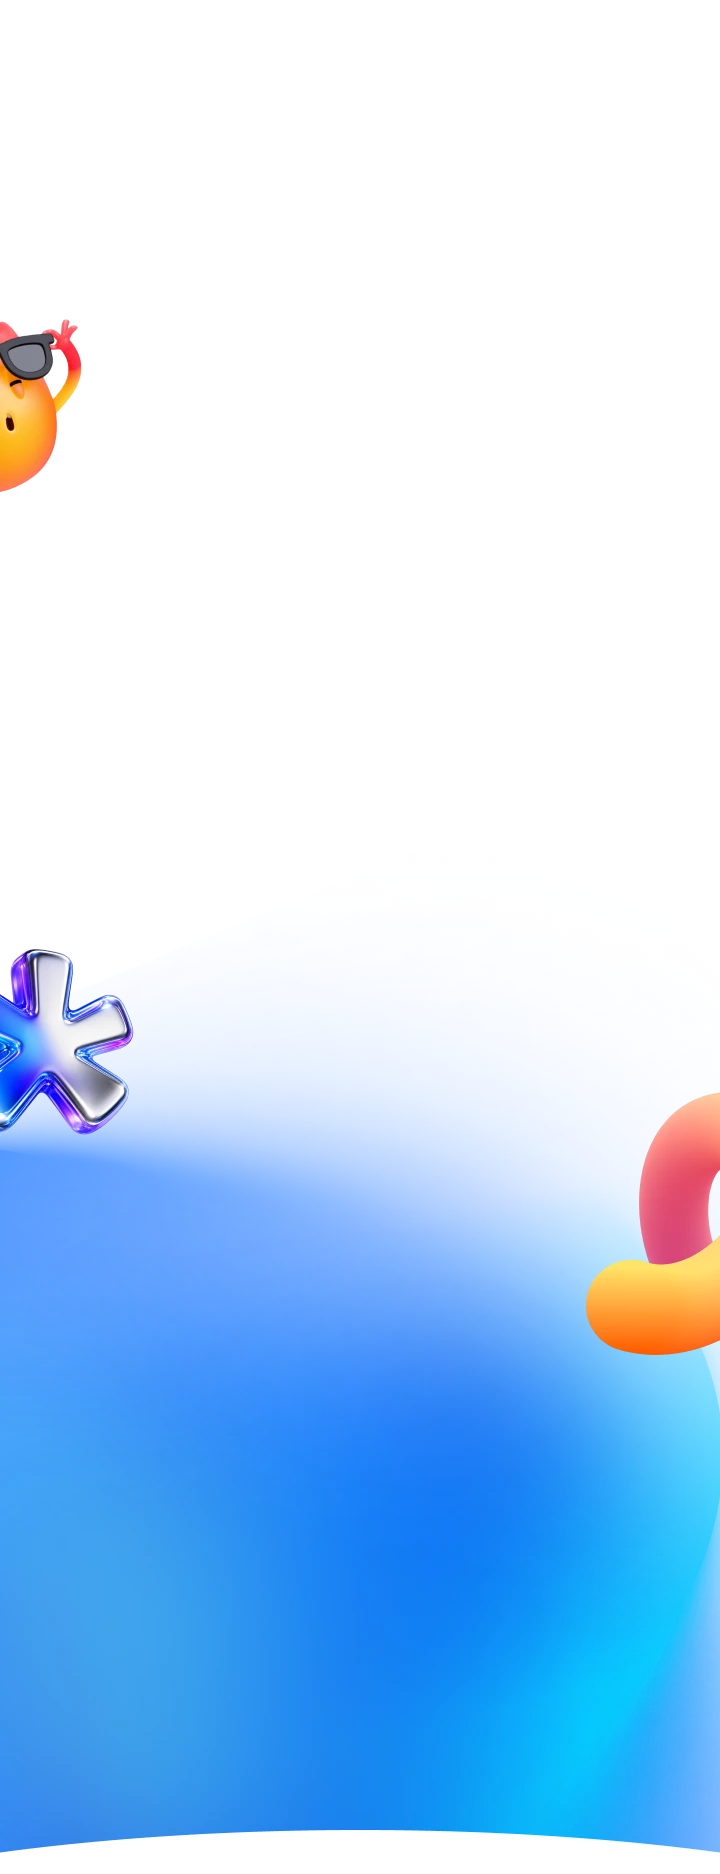
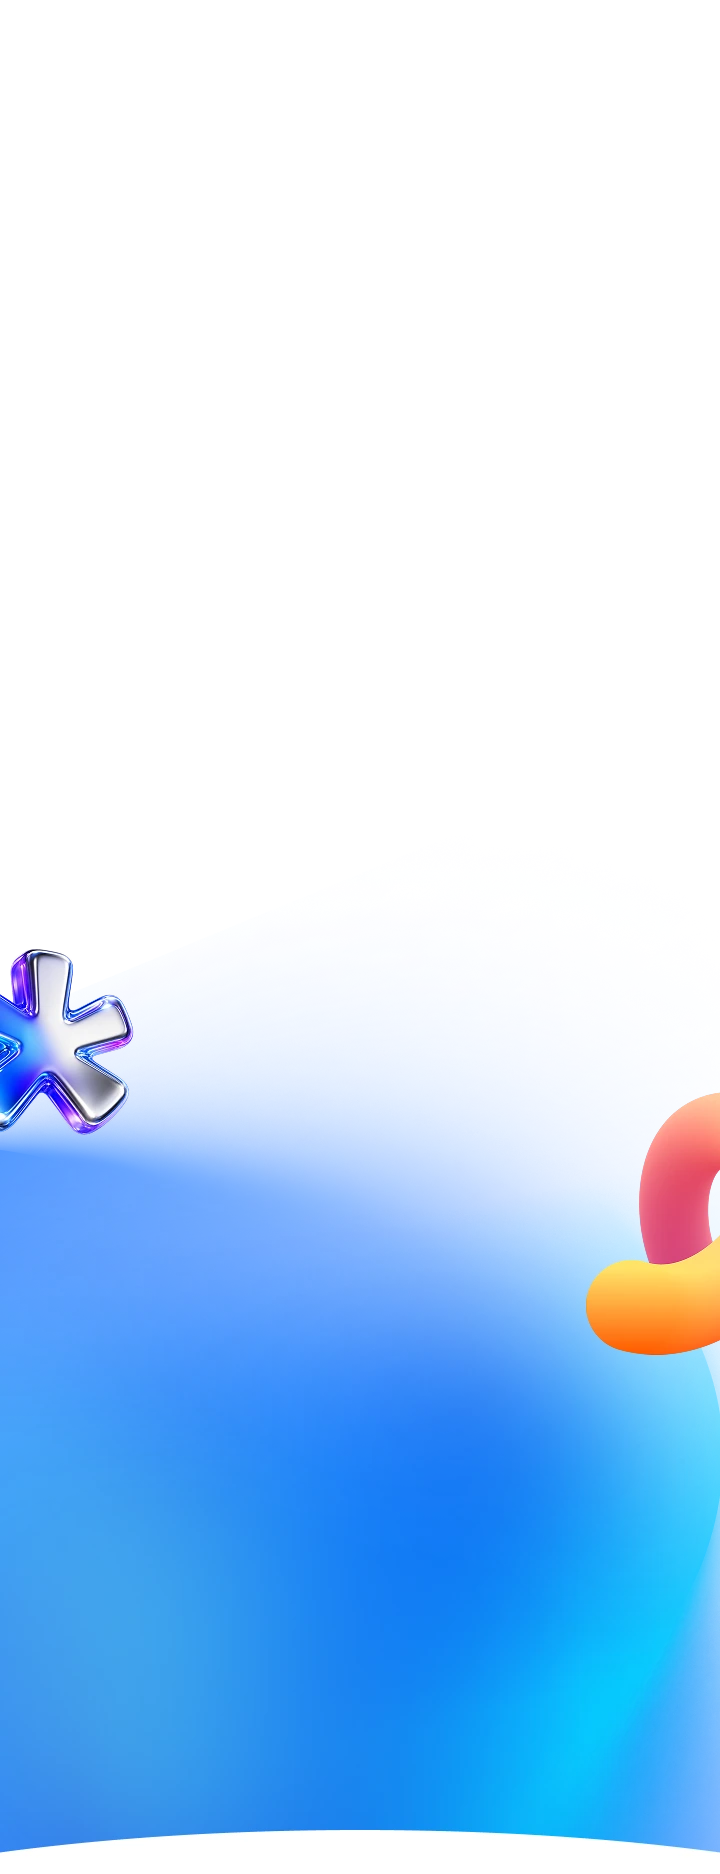
adde

Changed region(s): [[0.0, 0.1547, 0.1222, 0.2785], [0.0, 0.5571, 0.0306, 0.588]]

diff --git a/index.html b/index.html
@@ -69,7 +69,7 @@
                         <span class="desktop-block">Вход</span>
                     </a>
                     <a href="#" class="btn-register">
-                        <span class="desktop-block">Попробовать бесплатно</span>
+                        <span class="desktop-block">Попробовать <span>бесплатно</span></span>
                         <i class="icon icon-arrow mobile-block"></i>
                     </a>
                 </div>
@@ -130,6 +130,7 @@
                             <div class="hero-task-name"><i class="hero-task-circle"></i> Рабочий проект</div>
                             <div class="hero-task-name"><i class="hero-task-circle"></i> Школьный доклад</div>
                             <div class="hero-task-name"><i class="hero-task-circle"></i> Отчётная презентация</div>
+                            <div class="hero-task-name hero-task-other"><i class="hero-task-circle"></i> И другое</div>
                         </div>
                     </div>
                     <div class="hero-task-colum task-one" data-val="2">
@@ -148,6 +149,8 @@
                             <div class="hero-task-name"><i class="hero-task-circle"></i> Доклад</div>
                             <div class="hero-task-name"><i class="hero-task-circle"></i> Отчёт</div>
                             <div class="hero-task-name"><i class="hero-task-circle"></i> Диплом</div>
+                            <div class="hero-task-name hero-task-other"><i class="hero-task-circle"></i> И другое</div>
+
                         </div>
                     </div>
                     <div class="hero-task-colum task-three" data-val="3">
@@ -167,6 +170,8 @@
                             <div class="hero-task-name"><i class="hero-task-circle"></i> Генерация картинок</div>
                             <div class="hero-task-name"><i class="hero-task-circle"></i> Ретушь</div>
                             <div class="hero-task-name"><i class="hero-task-circle"></i> Улучшение фото</div>
+                            <div class="hero-task-name hero-task-other"><i class="hero-task-circle"></i> И другое</div>
+
                         </div>
                     </div>
                     <div class="hero-task-colum task-four" data-val="4">
@@ -186,6 +191,8 @@
                             <div class="hero-task-name"><i class="hero-task-circle"></i> Генерация по промпту</div>
                             <div class="hero-task-name"><i class="hero-task-circle"></i> Рекламный ролик</div>
                             <div class="hero-task-name"><i class="hero-task-circle"></i> Редактирование видео</div>
+                            <div class="hero-task-name hero-task-other"><i class="hero-task-circle"></i> И другое</div>
+
                         </div>
                     </div>
                 </div>

diff --git a/assets/css/home.css b/assets/css/home.css
@@ -114,7 +114,7 @@
 .hero-section {
   position: relative;
   z-index: 2;
-  min-height: 1103px;
+  min-height: 1173px;
   padding: 114px 0 0;
 }
 
@@ -327,7 +327,9 @@ display: block;
   height: 6px;
   border-radius: 50%;
 }
-
+.hero-task-other{
+  display: none;
+}
 
 
 .hero-task-name:nth-child(1){
@@ -1678,10 +1680,6 @@ html[data-theme="dark"] .section-decor-two{
 
 
 
-
-
-
-
 @media (max-width: 1200px) {
   .reviews-item {
     max-width: 49%;
@@ -1716,7 +1714,6 @@ html[data-theme="dark"] .section-decor-two{
     top: 115px;
     right: -27px;
   }
-
 
   .item-one {
     width: 314px;
@@ -1838,9 +1835,6 @@ html[data-theme="dark"] .section-decor-two{
   .hero-section {
     min-height: 925px;
     padding-bottom: 24px;
-  }
-  .reviews-item {
-    max-width: 47%;
   }
 
   .hero-task-cnt {
@@ -1993,12 +1987,12 @@ html[data-theme="dark"] .section-decor-two{
     margin-bottom: 0;
     border-radius: 10px;
     height: 381px;
+    max-width: 100%;
+
   }
 
 
-  .btn-register .desktop-block {
-    display: none;
-  }
+
 }
 
 
@@ -2303,7 +2297,9 @@ html[data-theme="dark"] .section-decor-two{
     font-size: 7.01px;
     line-height: 9.18px;
   }
-
+  .hero-task-cols {
+    min-height: 400px;
+  }
 
 
 
@@ -2414,20 +2410,6 @@ html[data-theme="dark"] .section-decor-two{
     z-index: 1;
   }
 
-  .btn-register {
-    height: 40px;
-    max-width: 40px;
-    width: 100%;
-    display: flex;
-    align-items: center;
-    justify-content: center;
-    min-width: 40px;
-    padding: 0;
-  }
-  .btn-register i {
-    flex: 0 0 15px;
-    font-size: 13px;
-  }
 
   .possibilit-card {
     max-width: 400px;
@@ -2505,7 +2487,9 @@ html[data-theme="dark"] .section-decor-two{
     width: 92px;
     height: 92px;
   }
-
+  .hero-section {
+    min-height: 1130px;
+  }
 
   .possibilit-card {
     gap: 16px;
@@ -2739,7 +2723,10 @@ html[data-theme="dark"] .section-decor-two{
     padding: 14px;
   }
 
-
+  .hero-task-other{
+    display: flex;
+    color: var(--accent-color);
+  }
 
   .for-content {
     top: 54px;
@@ -2748,7 +2735,10 @@ html[data-theme="dark"] .section-decor-two{
   }
   .hero-task-cols {
     max-width: 460px;
+    min-height: 380px;
+
   }
+
   .for-content h2 {
     font-size: 16.72px;
     margin: 4px 0;
@@ -2756,6 +2746,11 @@ html[data-theme="dark"] .section-decor-two{
   .for-content p {
     font-size: 6.01px;
     line-height: 7.18px;
+  }
+  .hero-task-name {
+    gap: 8px;
+    padding: 8px 11px;
+    font-size: 15px;
   }
 }
 
@@ -2780,4 +2775,6 @@ html[data-theme="dark"] .section-decor-two{
     font-size: 5.01px;
     line-height: 7.18px;
   }
+
+
 }

diff --git a/assets/css/main.css b/assets/css/main.css
@@ -756,6 +756,15 @@ strong {
   .hero-bg {
     height: auto;
   }
+  .hero-section {
+    min-height: 1090px;
+  }
+}
+
+@media (max-width: 1220px){
+  .hero-bg {
+    height: 100%;
+  }
 }
 
 @media (max-width: 1199px) {
@@ -782,13 +791,21 @@ strong {
     margin-top: 12px;
   }
   .hero-bg {
-    height: 90%;
+    height: 100%;
   }
-  .hero-bg img {
-    object-fit: unset;
+  .hero-section:before{
+    content: "";
+    position: absolute;
+    left: 0;
+    top: 150px;
+    background-image: url("../images/icon-banner.png");
+    background-repeat: no-repeat;
+    background-size: cover;
+    width: 92px;
+    height: 232px;
   }
-  .hero-bg img {
-    object-position: bottom;
+  .hero-ellipse {
+    bottom: -20px;
   }
   .img-desktop{
     display: none;
@@ -802,13 +819,22 @@ strong {
 
 
   .hero-titles {
-    max-width: 332px;
+    max-width: 340px;
   }
+
+
   .hero-ellipse {
-    display: none;
+    bottom: 100px;
   }
   .hero-titles p {
     max-width: 300px;
+  }
+  .hero-bg {
+    height: 956px;
+  }
+
+  .hero-section:before {
+    top: 92px;
   }
 }
 

diff --git a/assets/css/header.css b/assets/css/header.css
@@ -224,6 +224,13 @@ header.moved {
 
 
 
+@media (max-width: 1020px) {
+
+    .btn-register .desktop-block span{
+        display: none;
+    }
+}
+
 @media (max-width: 992px) {
     .language-sub-items {
         padding: 0 10px 0 0;
@@ -234,8 +241,29 @@ header.moved {
     .btn-login {
         display: none;
     }
+    .btn-register .desktop-block{
+        display: none;
+    }
     .language-sub-items {
         flex: 1 1 45%;
+    }
+    .btn-register i{
+        display: flex;
+    }
+
+    .btn-register {
+        height: 40px;
+        max-width: 40px;
+        width: 100%;
+        display: flex;
+        align-items: center;
+        justify-content: center;
+        min-width: 40px;
+        padding: 0;
+    }
+    .btn-register i {
+        flex: 0 0 15px;
+        font-size: 13px;
     }
 }
 
@@ -271,9 +299,7 @@ header.moved {
         transition: 0.3s;
         padding: 0;
     }
-    .btn-register i{
-        display: flex;
-    }
+
     .l-select-flag {
         margin-top: 0;
     }
